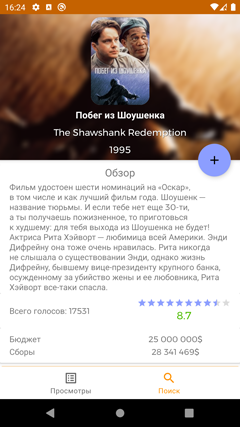
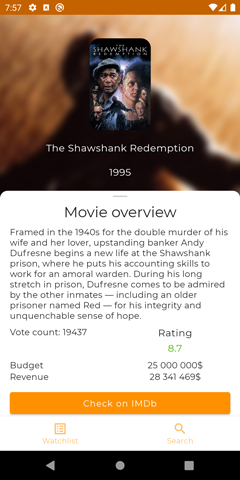
Updated README and screenshots

diff --git a/README.md b/README.md
@@ -3,18 +3,17 @@
 ![Search screen](/screenshots/search-screen.png "Экран поиска")
 ![Detail screen](/screenshots/detail-screen.png "Детальная информация о фильме")
 
-Приложение, разработанное мной в рамках демонстрационного проекта. Использует API сервиса The Movie Database (TMDb) для поиска фильмов, сериалов и ТВ-шоу и предоставляет возможность добавления их в список для дальнейшего просмотра.
+ToWatchList - демонстрационное приложение для поиска, и локального сохранения информации о фильмах, сериалах и ТВ-шоу. Использует API сервиса The Movie Database (TMDb).
 
-При проектировании архитектуры приложения был применен шаблон MVVM (с использованием архитектурных компонентов, таких как ViewModel и LiveData), а также методология Clean Architecture
+С версии 0.2 приложение было полностью перенесено на Jetpack Compose. При проектировании архитектуры приложения применялась методология Clean Architecture
 
 Стек используемых технологий:
 --------------
 
 + В качестве языка программирования: Kotlin
 + Для внедрения зависимостей: Hilt
-+ Для получения данный из удаленного источника: Retrofit2
-+ Для хранения данный на устройстве: Room Persistence Library
++ Для получения данных из удаленного источника: Retrofit2
++ Для хранения данных на устройстве: Room Persistence Library
 + Для реализации асинхронной работы: Kotlin coroutines и Asynchronous Flow
-+ Для навигации по приложению: Navigation Component
-+ Для работы с изображениями: Glide
++ Для работы с изображениями: Coil
 + Также использовалась Paging Library для постраничной загрузки данных
